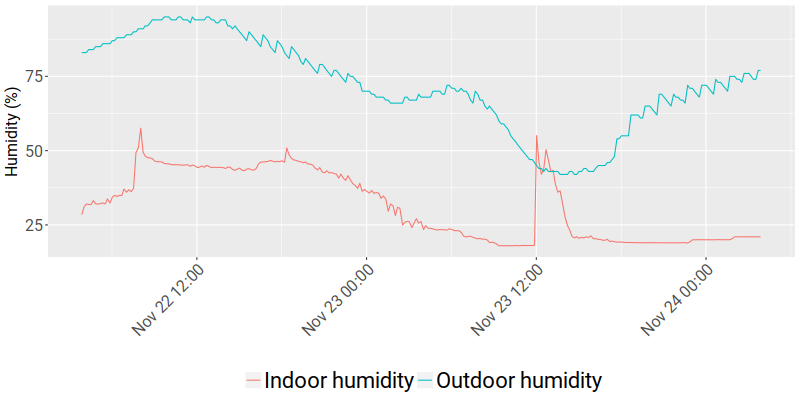
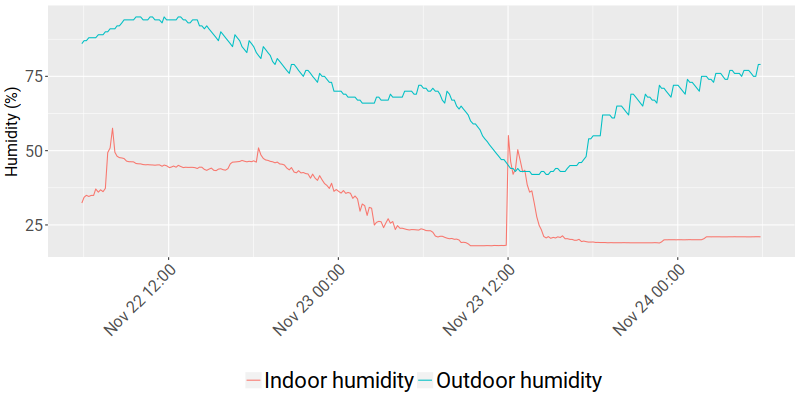
Update live temperature on site

diff --git a/temperature.js b/temperature.js
@@ -1,1 +1,1 @@
-document.write("<h4>Inside Temperature: 16.0°C</h4><h4>Outside Temperature: -1.93°C</h4><h4>Fermenter 1 Temperature: 85.0°C</h4><h4>Fermenter 2 Temperature: 15.69°C</h4><h4>Inside Humidity: 21.02%</h4><h4>Outside Humidity: 77.0%</h4><br>Last update: 2017-11-24 03:51:20");
+document.write("<h4>Inside Temperature: 16.0°C</h4><h4>Outside Temperature: -2.25°C</h4><h4>Fermenter 1 Temperature: 85.0°C</h4><h4>Fermenter 2 Temperature: 15.69°C</h4><h4>Inside Humidity: 21.02%</h4><h4>Outside Humidity: 79.0%</h4><br>Last update: 2017-11-24 05:51:23");
